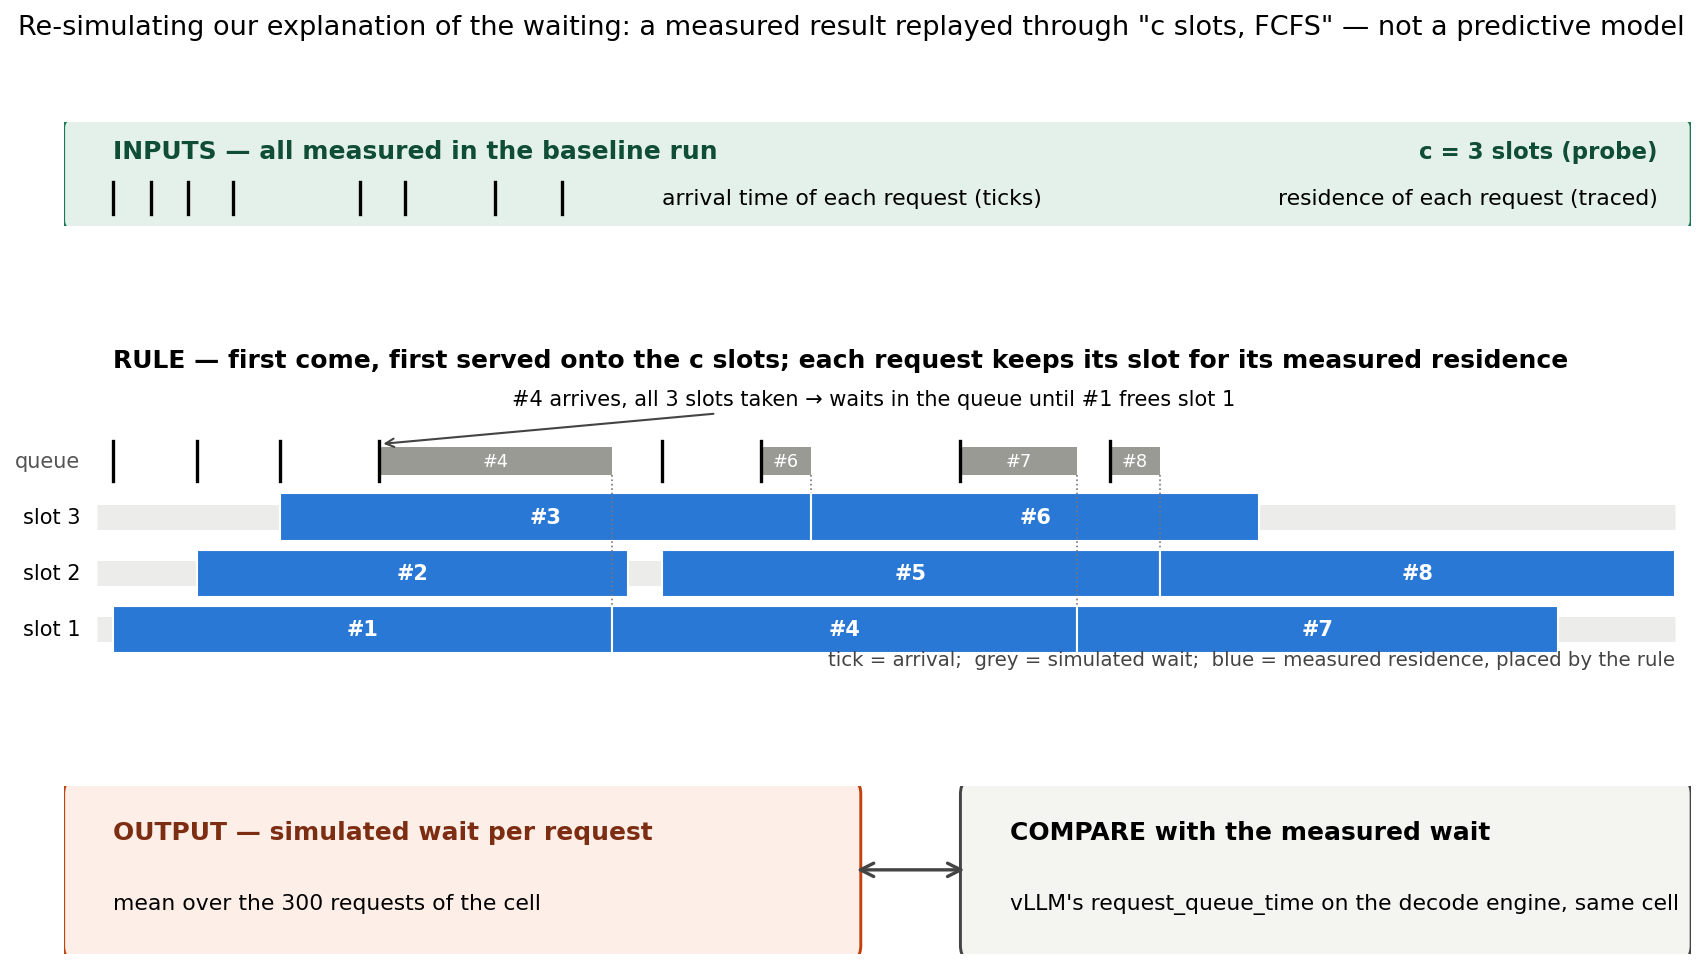
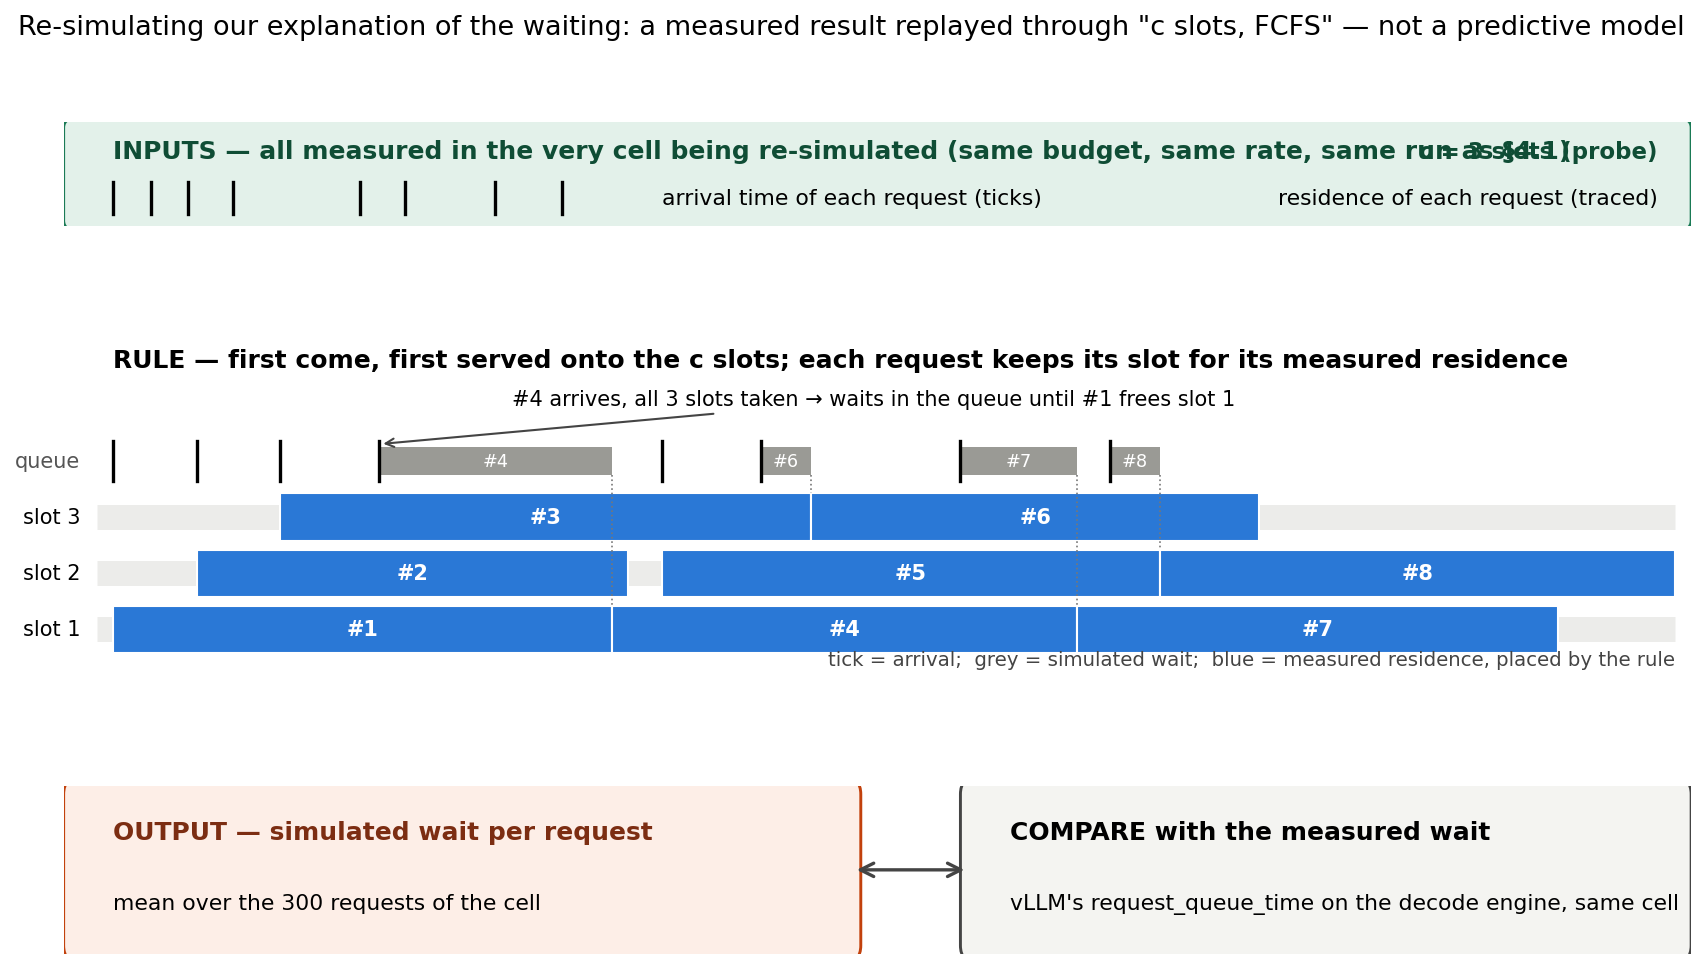
KV-slot report: re-simulation inputs named as the cell's own run

Changed region(s): [[0.3107, 0.1238, 0.9009, 0.1858]]

diff --git a/scripts/plots/plot_kv_resim.py b/scripts/plots/plot_kv_resim.py
@@ -40,7 +40,7 @@ ax0.set_xlim(-0.3, 9.5)
 ax0.set_ylim(0, 1)
 ax0.axis("off")
 ax0.add_patch(FancyBboxPatch((-0.2, 0.05), 9.6, 0.9, boxstyle="round,pad=0.1", fc=C_IN, ec="#1a7a55", lw=1.4))
-ax0.text(0.0, 0.72, "INPUTS — all measured in the baseline run", fontsize=12, fontweight="bold", color="#0f4d35", va="center")
+ax0.text(0.0, 0.72, "INPUTS — all measured in the very cell being re-simulated (same budget, same rate, same run as §4.1)", fontsize=12, fontweight="bold", color="#0f4d35", va="center")
 for a in arr:
     ax0.plot([a * 0.45, a * 0.45], [0.12, 0.42], color="black", lw=1.6)
 ax0.text(3.3, 0.27, "arrival time of each request (ticks)", fontsize=10.5, va="center")

diff --git a/reports/report_kv_slots.md b/reports/report_kv_slots.md
@@ -145,8 +145,10 @@ to it.
 it to the measured waiting. Picture c parking spaces: cars arrive at the recorded times,
 a car that finds a free space takes it at once, otherwise it joins a first-come-first-
 served line and takes the next space that frees; each car stays for the time its request
-actually stayed (admitted → last token, as traced). The simulation uses the cell's own
-300 arrival times and each request's own residence; c comes from the probe. It is a
+actually stayed (admitted → last token, as traced). The simulation uses, for each grid cell
+of §4.1, that cell's own traced run — the unmodified stack at that budget and rate —
+taking its 300 arrival times and each request's own residence from the trace; c comes
+from the probe. It is a
 **re-simulation of a measured result, not a predictive model**: both inputs are
 measured, so it cannot forecast an unmeasured budget or rate. What it answers is a yes/no
 question — does "c slots, FCFS" account for the waiting we saw?
